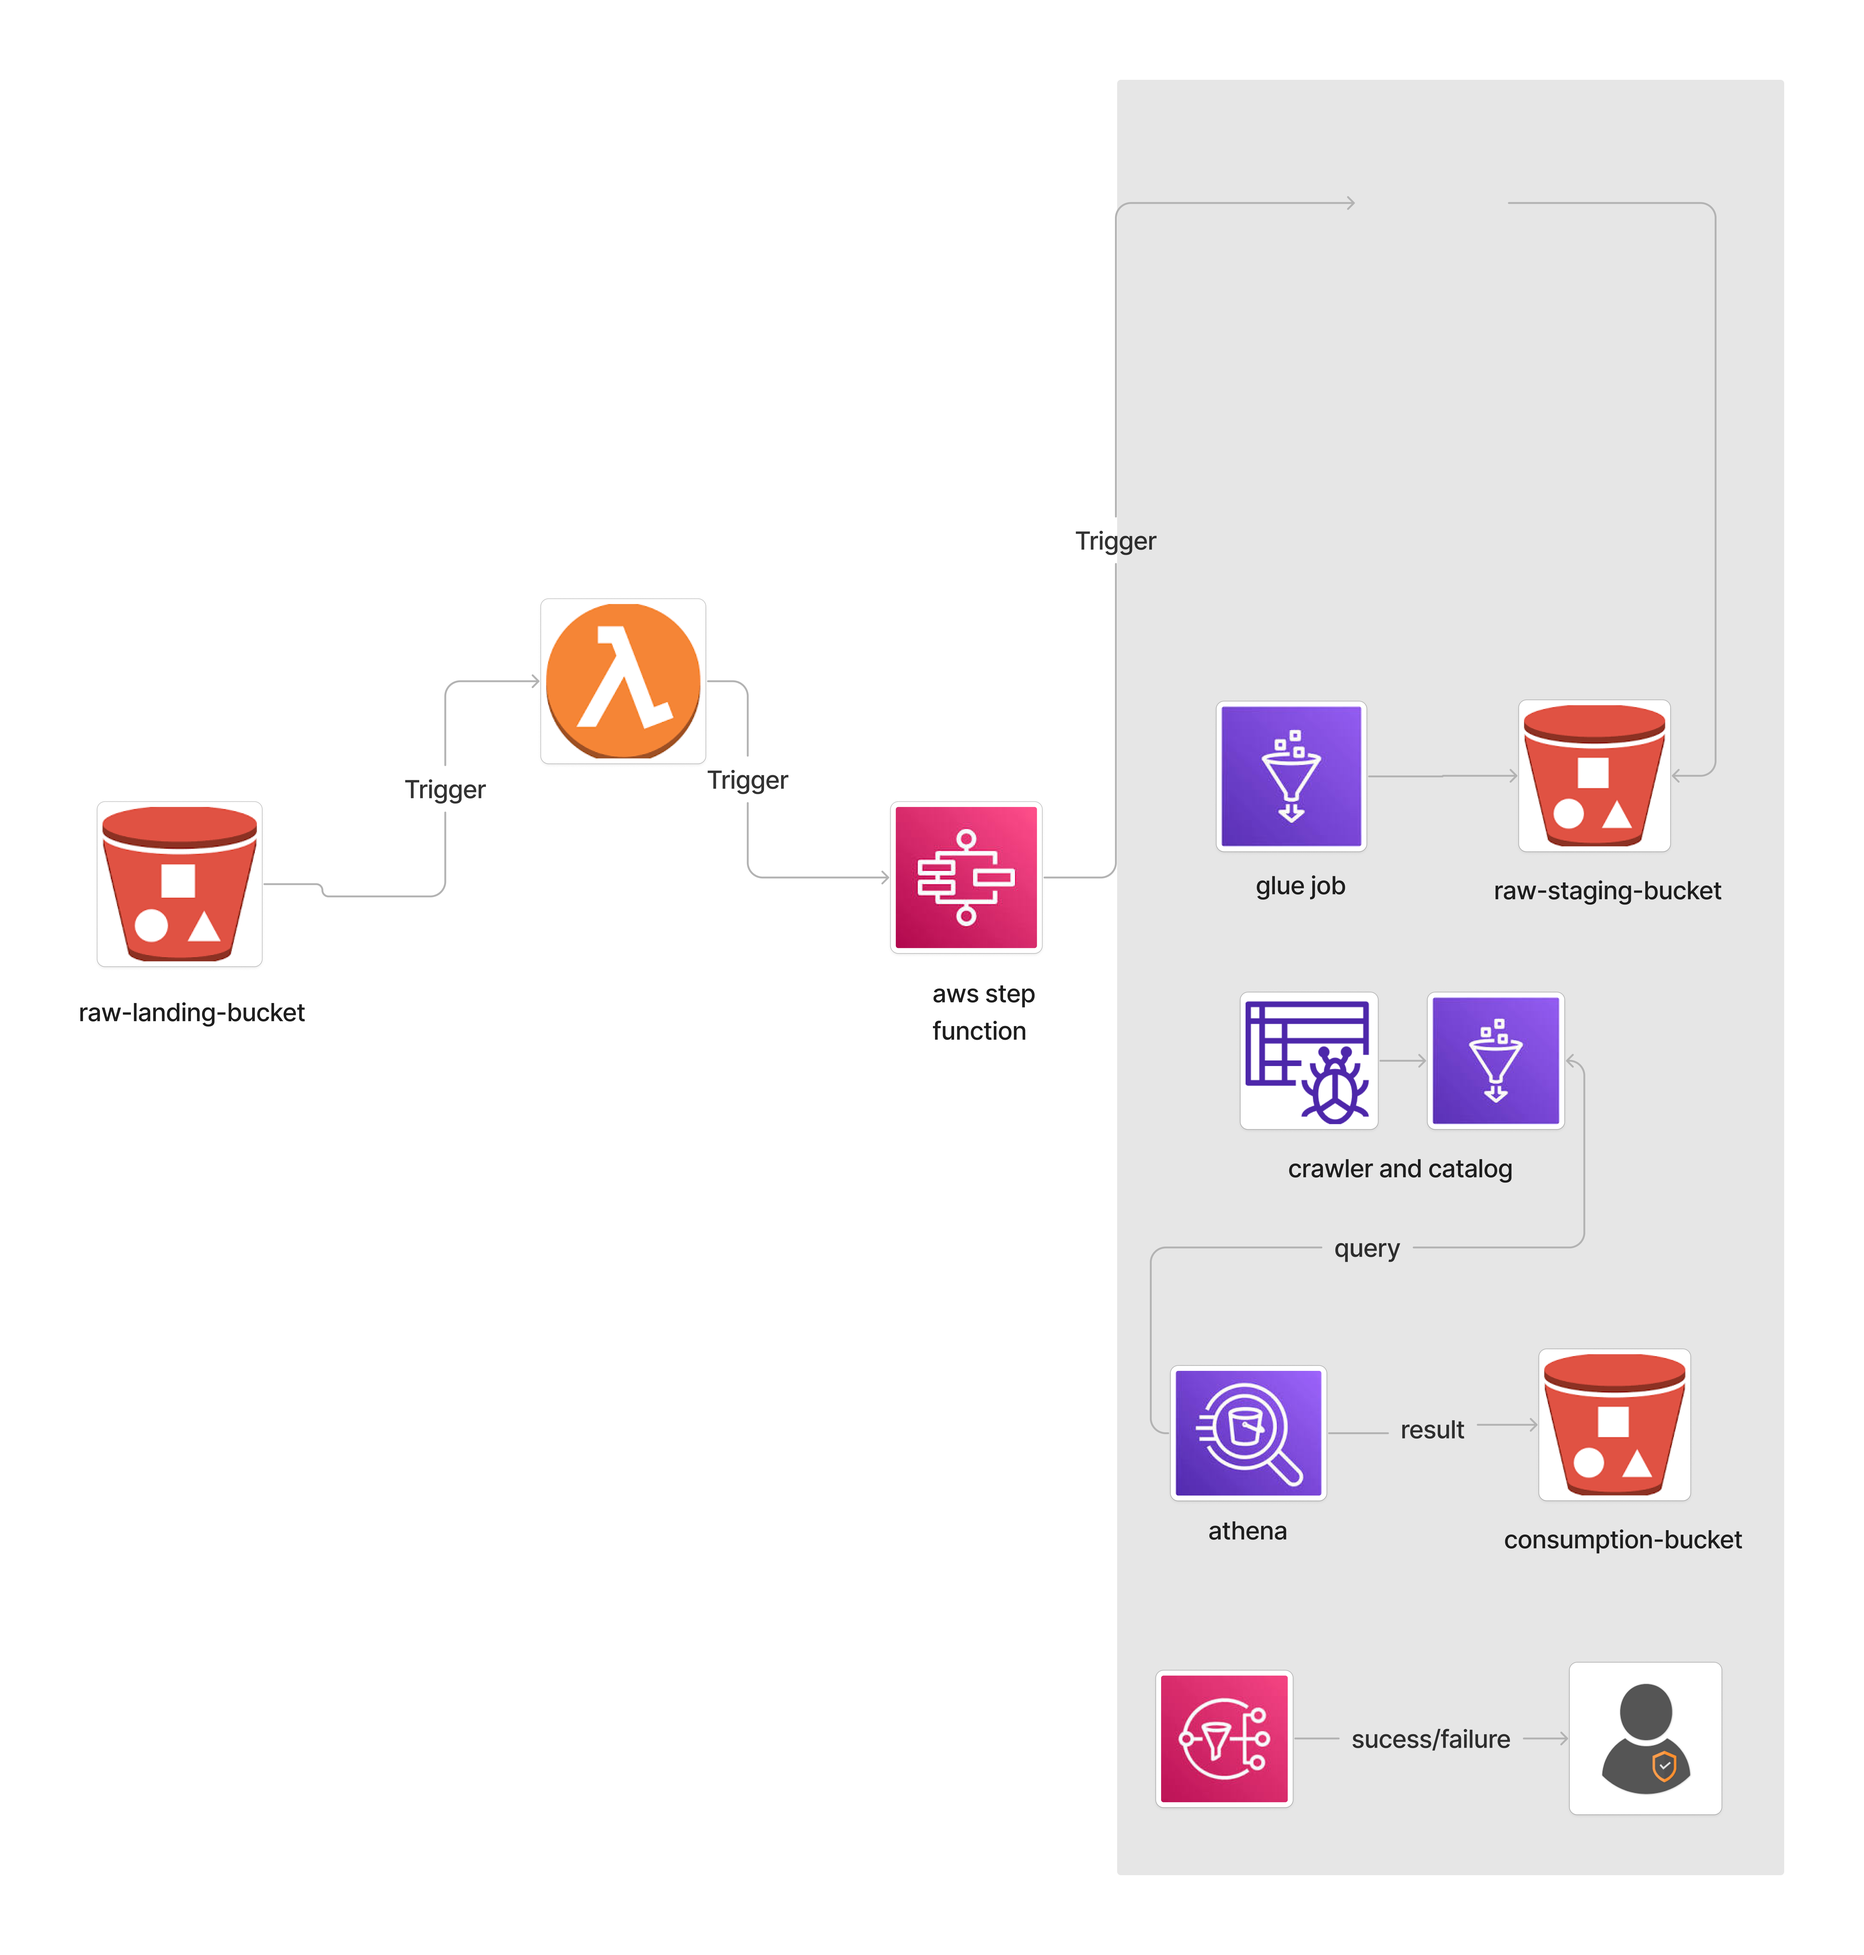
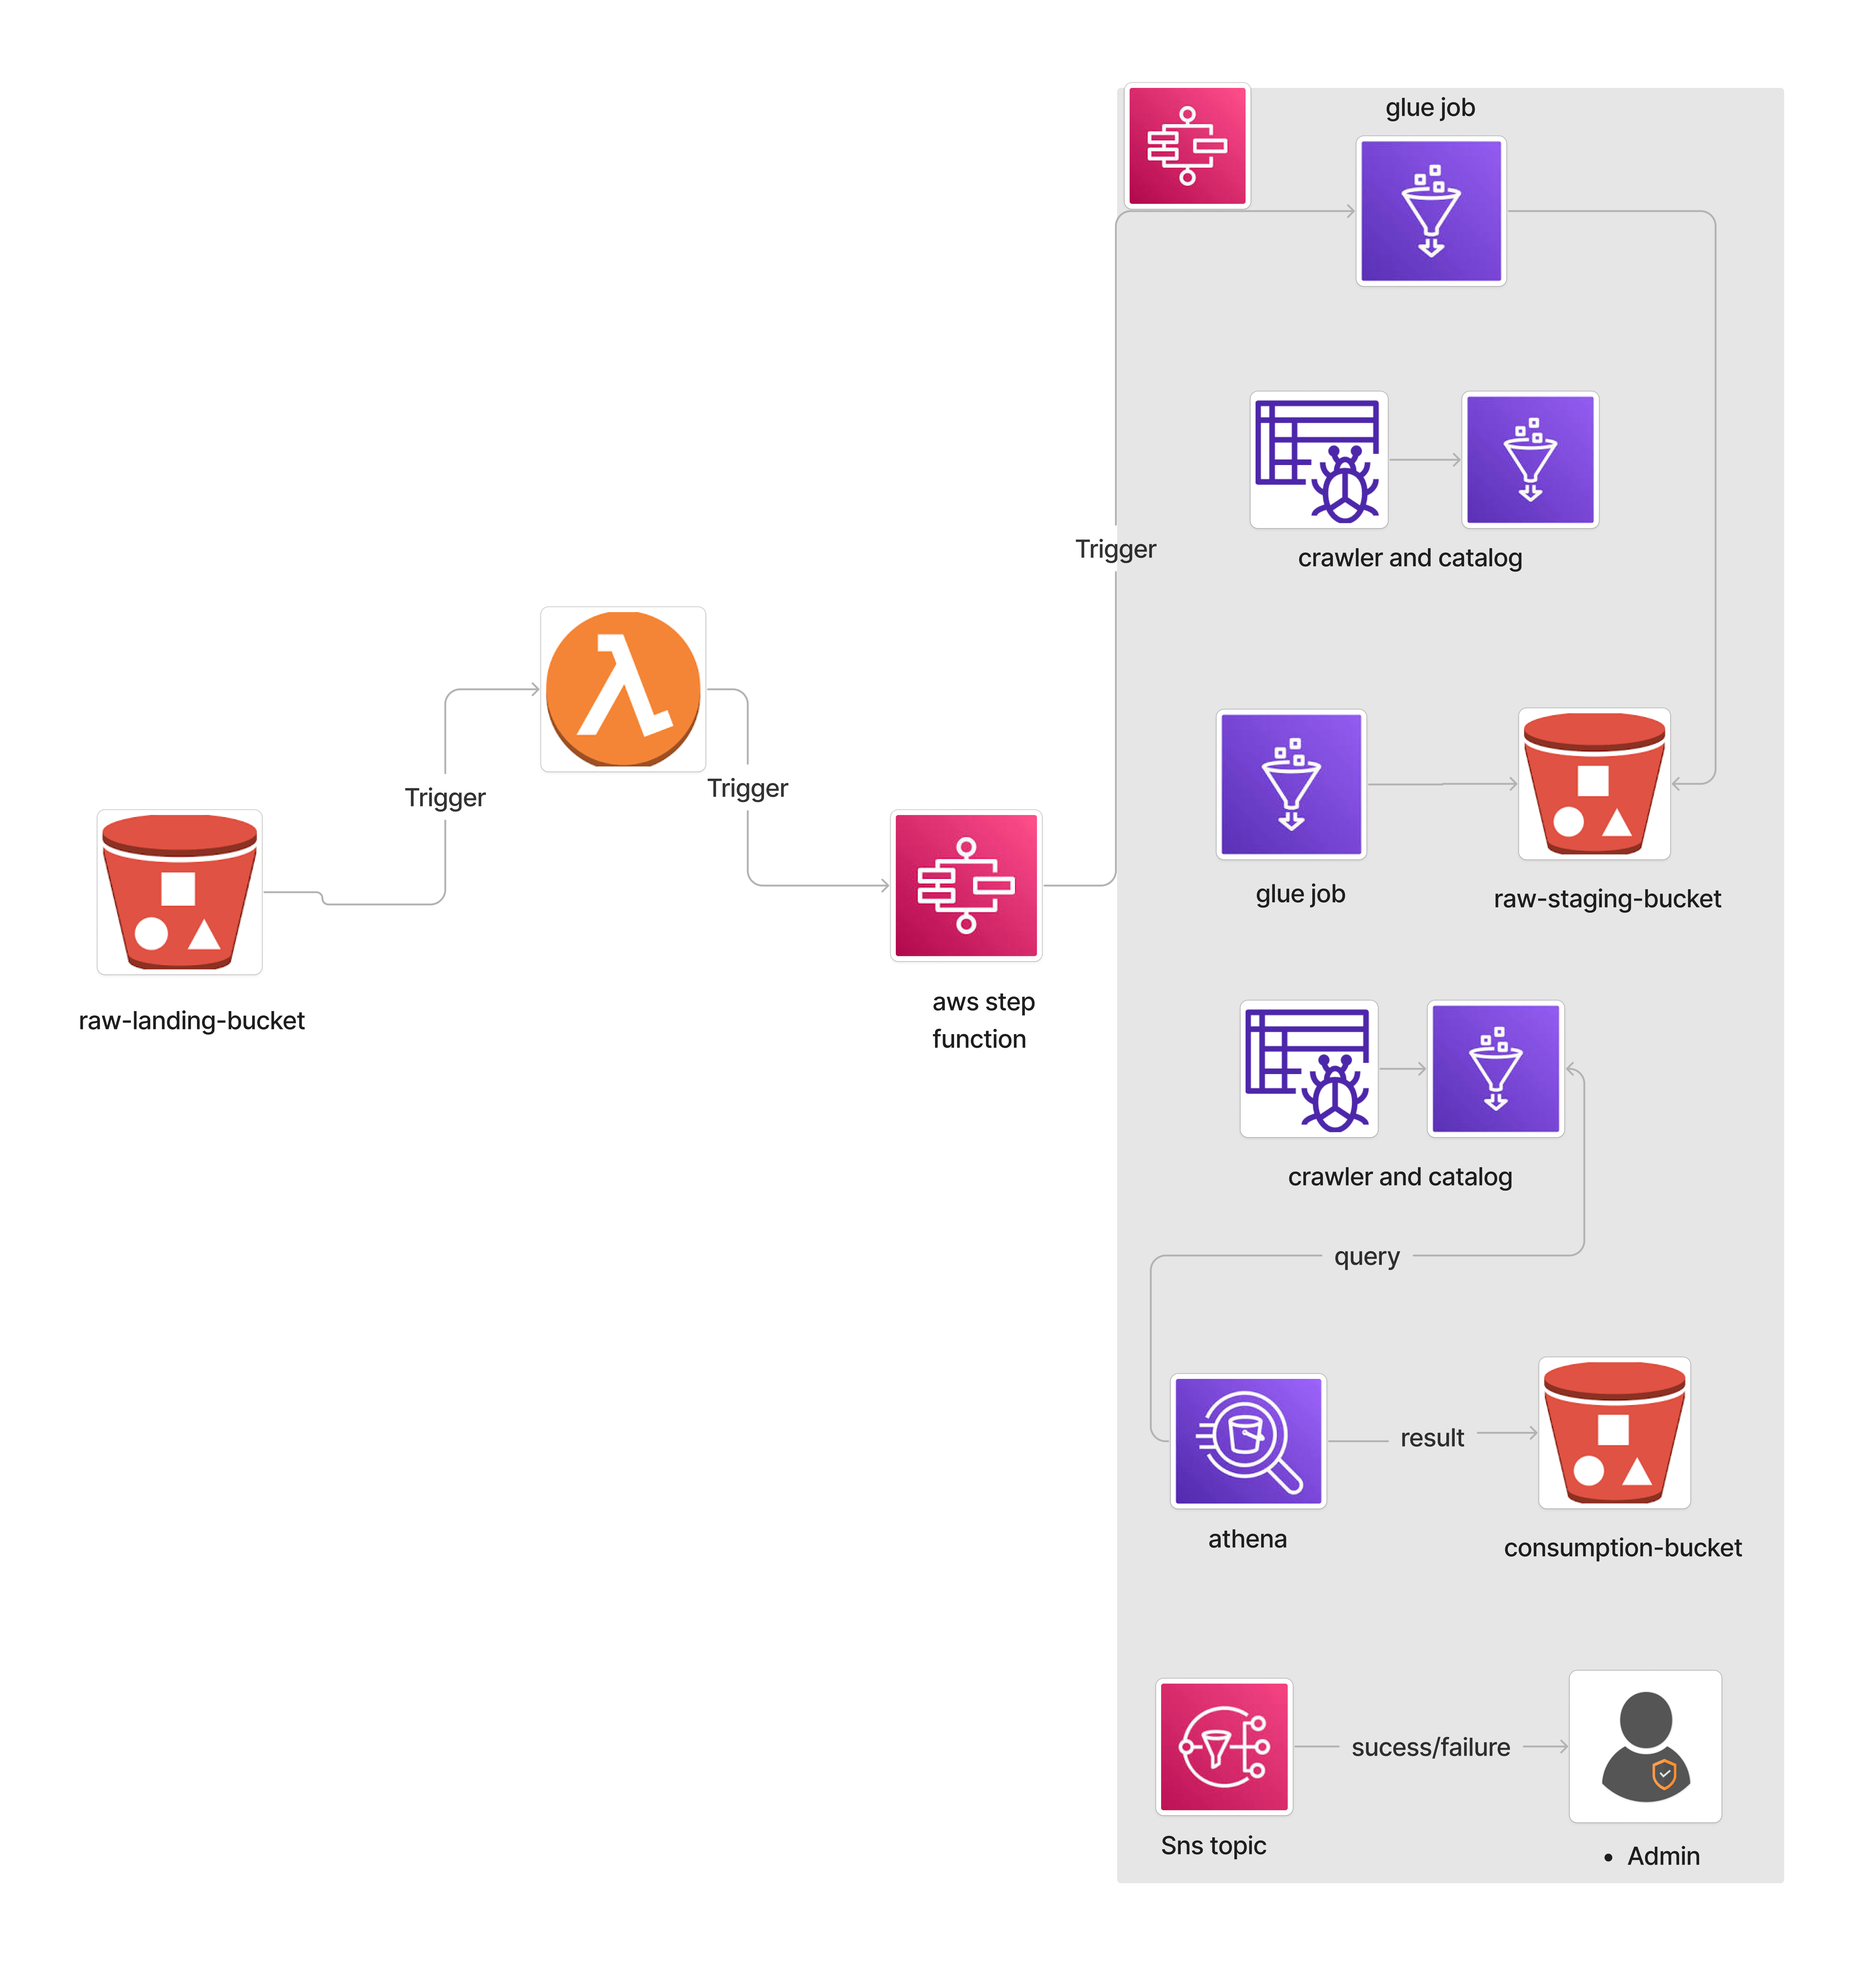
add step_function stack and lambda function trigger

diff --git a/step_function_stack/step_func_stack.py b/step_function_stack/step_func_stack.py
@@ -1,0 +1,30 @@
+from aws_cdk import (
+    Duration,
+    Stack,
+    aws_lambda as _lambda,
+    aws_glue as _glue,
+    aws_iam as _iam,
+    aws_stepfunctions as _sfn,
+    aws_stepfunctions_tasks as _task,
+    aws_sns as _sns,
+    aws_s3_notifications as _sn,
+)
+from constructs import Construct
+
+class Etl_StateMechineStack(Stack):
+
+    def __init__(self, scope: Construct, construct_id: str, **kwargs) -> None:
+        super().__init__(scope, construct_id, **kwargs)
+        
+        lambda_function_role = _iam.Role(self,
+                                         "lambdafunctionrole",
+                                        assumed_by=_iam.ServicePrincipal("lambda.amazonaws.com"),
+                                        managed_policies=[
+                                            _iam.ManagedPolicy.from_aws_managed_policy_name("AmazonS3FullAccess"),
+                                        ]
+                                         )
+        
+      
+        
+        
+        

diff --git a/lambda/lambda_trigger_func.py b/lambda/lambda_trigger_func.py
@@ -4,8 +4,7 @@ import os
 
 
 def handler(event,context):
-   client = boto3.client('stepfunctions')
-   
+   client = boto3.client('stepfunctions') 
    ## trigger aws step function state meachine
    step_function_state_machine_trigger = client.client.start_sync_execution(
             stateMachineArn=os.environ['STATE_MECHINE_ARN'],
